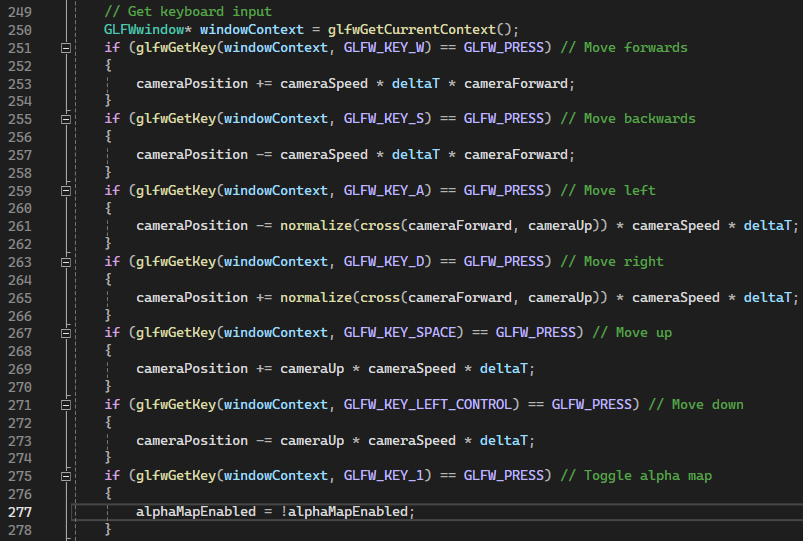
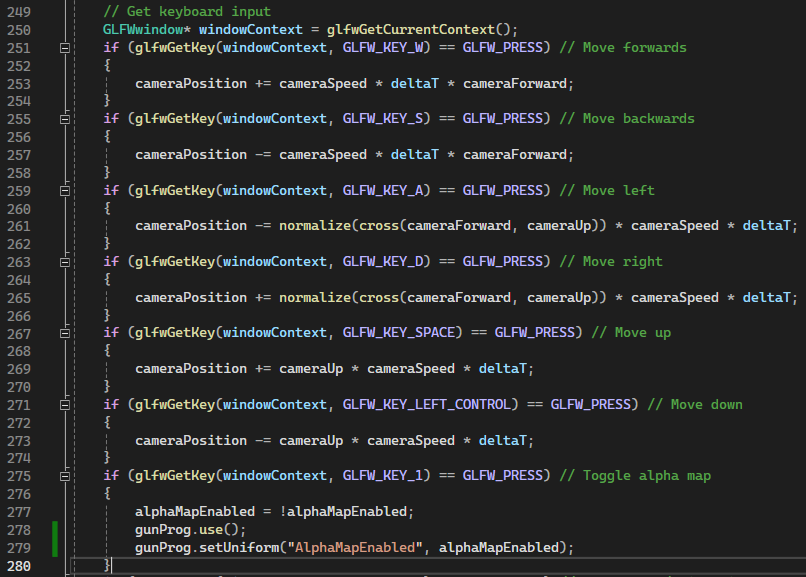
Update alpha map uniform

Changed region(s): [[0.0, 0.0, 1.0, 1.0]]

diff --git a/scenebasic_uniform.cpp b/scenebasic_uniform.cpp
@@ -275,6 +275,8 @@ void SceneBasic_Uniform::update( float t )
     if (glfwGetKey(windowContext, GLFW_KEY_1) == GLFW_PRESS) // Toggle alpha map
     {
         alphaMapEnabled = !alphaMapEnabled;
+        gunProg.use();
+        gunProg.setUniform("AlphaMapEnabled", alphaMapEnabled);
     }
     if (glfwGetKey(windowContext, GLFW_KEY_2) == GLFW_PRESS) // Toggle rgb/white lights
     {
@@ -523,9 +525,6 @@ void SceneBasic_Uniform::drawScene()
 
     // Gun rendering
     gunProg.use();
-
-    // Set toggle uniforms
-    gunProg.setUniform("AlphaMapEnabled", alphaMapEnabled);
 
     // Set material uniforms
     gunProg.setUniform("Material.Kd", vec3(0.2f, 0.55f, 0.9f));
